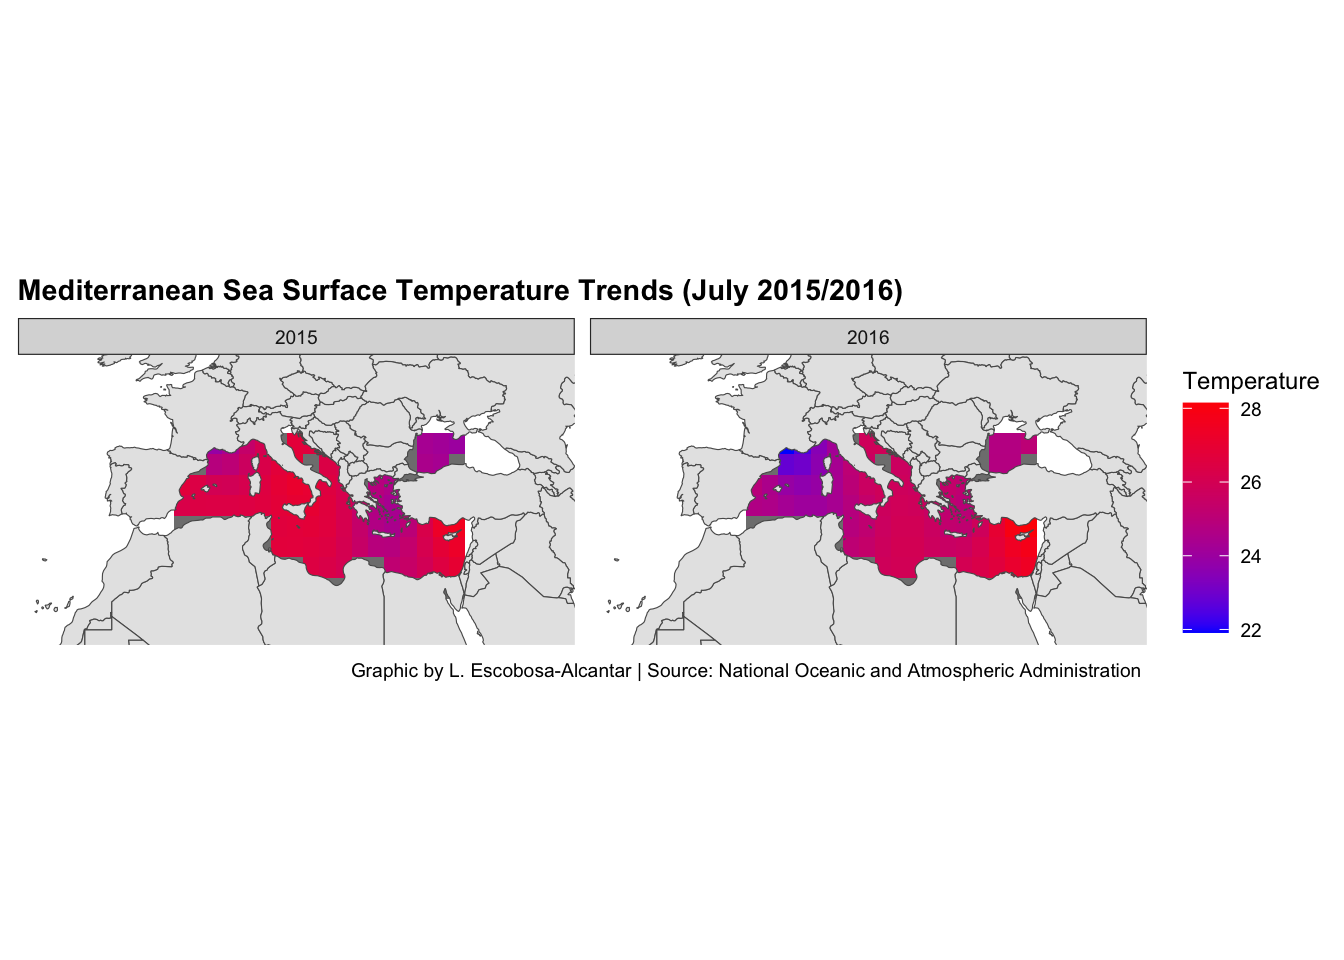
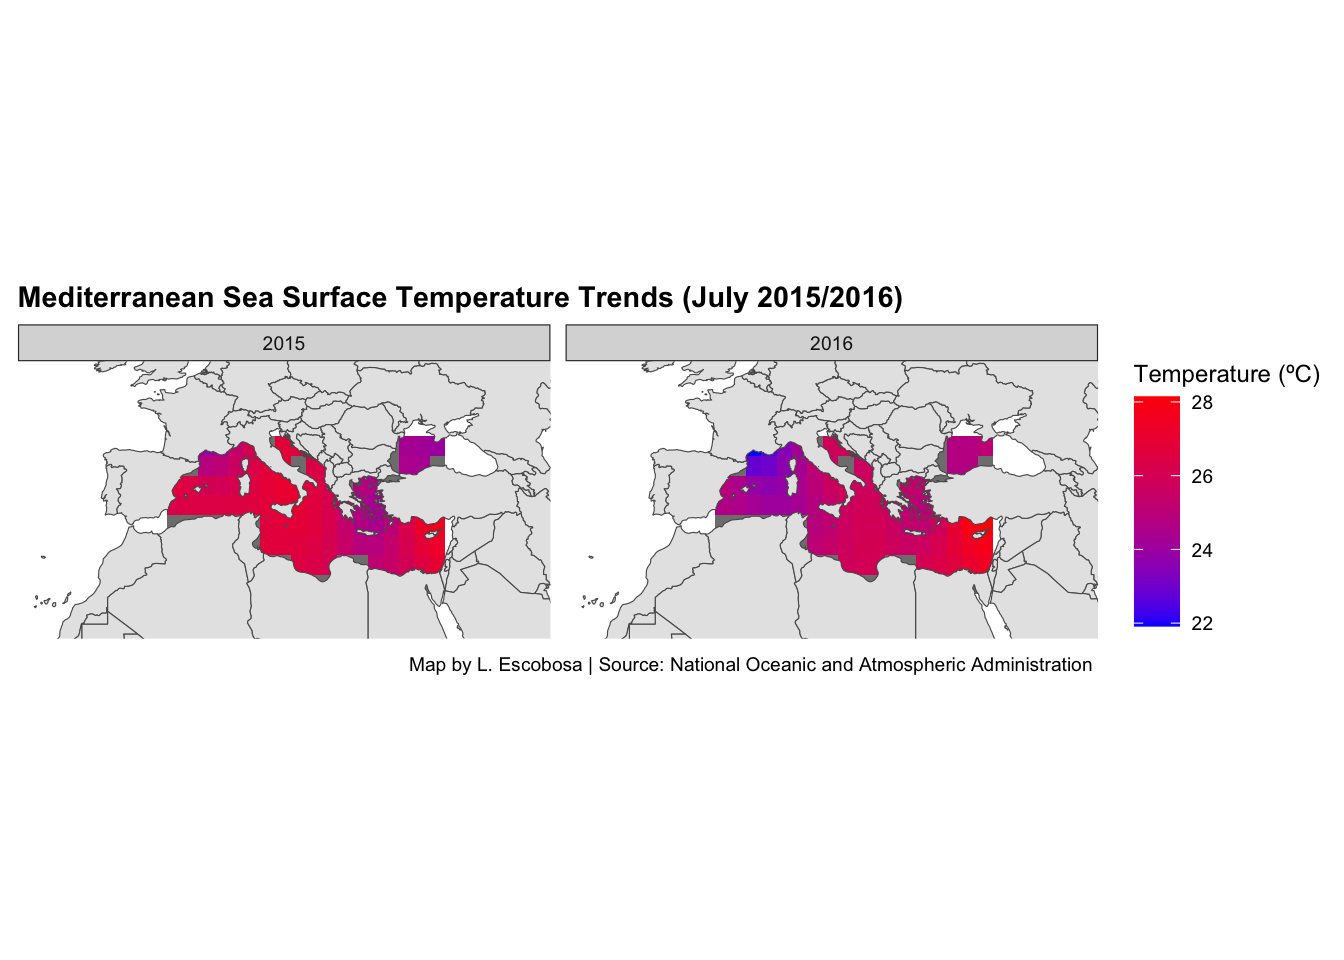
updated fish pop formatting

Changed region(s): [[0.0, 0.2812, 1.0, 0.7188]]

diff --git a/docs/fishpop.html b/docs/fishpop.html
@@ -240,16 +240,18 @@ code span.wa { color: #60a0b0; font-weight: bold; font-style: italic; } /* Warni
 <details>
 <summary>Code</summary>
 <div class="sourceCode cell-code" id="cb1"><pre class="sourceCode r code-with-copy"><code class="sourceCode r"><span id="cb1-1"><a href="#cb1-1" aria-hidden="true" tabindex="-1"></a>NewDat <span class="sc">%&gt;%</span> </span>
-<span id="cb1-2"><a href="#cb1-2" aria-hidden="true" tabindex="-1"></a>  <span class="fu">ggplot</span>(<span class="fu">aes</span>(<span class="at">x =</span> sst, <span class="at">y =</span> Pred, <span class="at">color =</span> FishType)) <span class="sc">+</span> </span>
-<span id="cb1-3"><a href="#cb1-3" aria-hidden="true" tabindex="-1"></a>  <span class="fu">geom_point</span>() <span class="sc">+</span> </span>
-<span id="cb1-4"><a href="#cb1-4" aria-hidden="true" tabindex="-1"></a>  <span class="fu">facet_grid</span>(TimePeriod<span class="sc">~</span>Month) <span class="sc">+</span></span>
-<span id="cb1-5"><a href="#cb1-5" aria-hidden="true" tabindex="-1"></a>  <span class="fu">labs</span>(<span class="at">title =</span> <span class="st">"Predictions for average count of C. julis and T. pavo before and after 2015"</span>,</span>
-<span id="cb1-6"><a href="#cb1-6" aria-hidden="true" tabindex="-1"></a>       <span class="at">subtitle =</span> <span class="st">"(in relation to sea surface temperature)"</span>,</span>
-<span id="cb1-7"><a href="#cb1-7" aria-hidden="true" tabindex="-1"></a>       <span class="at">caption =</span> <span class="st">"Graphic by L. Escobosa-Alcantar | Source: National Oceanic and Atmospheric Administration"</span>,</span>
-<span id="cb1-8"><a href="#cb1-8" aria-hidden="true" tabindex="-1"></a>       <span class="at">x =</span> <span class="st">"Sea Surface Temperature"</span>,</span>
-<span id="cb1-9"><a href="#cb1-9" aria-hidden="true" tabindex="-1"></a>       <span class="at">y =</span> <span class="st">"Prediction of Count"</span>) <span class="sc">+</span></span>
-<span id="cb1-10"><a href="#cb1-10" aria-hidden="true" tabindex="-1"></a>  <span class="fu">theme_classic</span>() <span class="sc">+</span></span>
-<span id="cb1-11"><a href="#cb1-11" aria-hidden="true" tabindex="-1"></a>  <span class="fu">theme</span>(<span class="at">plot.title =</span> <span class="fu">element_text</span>(<span class="at">face =</span> <span class="st">"bold"</span>))</span></code><button title="Copy to Clipboard" class="code-copy-button"><i class="bi"></i></button></pre></div>
+<span id="cb1-2"><a href="#cb1-2" aria-hidden="true" tabindex="-1"></a>  <span class="fu">mutate</span>(<span class="at">FishType =</span> <span class="fu">ifelse</span>(FishType <span class="sc">==</span> <span class="st">"Coris_julis"</span>, <span class="st">"C. julis"</span>, <span class="st">"T. pavo"</span>)) <span class="sc">%&gt;%</span> </span>
+<span id="cb1-3"><a href="#cb1-3" aria-hidden="true" tabindex="-1"></a>  <span class="fu">ggplot</span>(<span class="fu">aes</span>(<span class="at">x =</span> sst, <span class="at">y =</span> Pred, <span class="at">color =</span> FishType)) <span class="sc">+</span> </span>
+<span id="cb1-4"><a href="#cb1-4" aria-hidden="true" tabindex="-1"></a>  <span class="fu">geom_point</span>() <span class="sc">+</span> </span>
+<span id="cb1-5"><a href="#cb1-5" aria-hidden="true" tabindex="-1"></a>  <span class="fu">facet_grid</span>(TimePeriod<span class="sc">~</span>Month) <span class="sc">+</span></span>
+<span id="cb1-6"><a href="#cb1-6" aria-hidden="true" tabindex="-1"></a>  <span class="fu">labs</span>(<span class="at">title =</span> <span class="st">"Predictions for average count of C. julis and T. pavo before and after 2015"</span>,</span>
+<span id="cb1-7"><a href="#cb1-7" aria-hidden="true" tabindex="-1"></a>       <span class="at">subtitle =</span> <span class="st">"(in relation to sea surface temperature)"</span>,</span>
+<span id="cb1-8"><a href="#cb1-8" aria-hidden="true" tabindex="-1"></a>       <span class="at">caption =</span> <span class="st">"Graphic by L. Escobosa | Source: National Oceanic and Atmospheric Administration"</span>,</span>
+<span id="cb1-9"><a href="#cb1-9" aria-hidden="true" tabindex="-1"></a>       <span class="at">x =</span> <span class="st">"Sea Surface Temperature (ºC)"</span>,</span>
+<span id="cb1-10"><a href="#cb1-10" aria-hidden="true" tabindex="-1"></a>       <span class="at">y =</span> <span class="st">"Prediction of Count"</span>,</span>
+<span id="cb1-11"><a href="#cb1-11" aria-hidden="true" tabindex="-1"></a>       <span class="at">color =</span> <span class="st">"Fish Type"</span>) <span class="sc">+</span></span>
+<span id="cb1-12"><a href="#cb1-12" aria-hidden="true" tabindex="-1"></a>  <span class="fu">theme_classic</span>() <span class="sc">+</span></span>
+<span id="cb1-13"><a href="#cb1-13" aria-hidden="true" tabindex="-1"></a>  <span class="fu">theme</span>(<span class="at">plot.title =</span> <span class="fu">element_text</span>(<span class="at">face =</span> <span class="st">"bold"</span>))</span></code><button title="Copy to Clipboard" class="code-copy-button"><i class="bi"></i></button></pre></div>
 </details>
 <div class="cell-output-display">
 <p><img src="fishpop_files/figure-html/unnamed-chunk-3-1.png" class="img-fluid" width="672"></p>
@@ -270,9 +272,9 @@ code span.wa { color: #60a0b0; font-weight: bold; font-style: italic; } /* Warni
 <span id="cb2-6"><a href="#cb2-6" aria-hidden="true" tabindex="-1"></a>  <span class="fu">coord_sf</span>(<span class="at">xlim =</span>  <span class="fu">c</span>(<span class="sc">-</span><span class="fl">17.14</span>,<span class="fl">45.44</span>), <span class="at">ylim =</span> <span class="fu">c</span>(<span class="fl">25.80</span>, <span class="fl">51.29</span>)) <span class="sc">+</span> </span>
 <span id="cb2-7"><a href="#cb2-7" aria-hidden="true" tabindex="-1"></a>  <span class="fu">scale_fill_gradient</span>(<span class="at">low=</span><span class="st">'blue'</span>,<span class="at">high=</span><span class="st">'red'</span>) <span class="sc">+</span> </span>
 <span id="cb2-8"><a href="#cb2-8" aria-hidden="true" tabindex="-1"></a>  <span class="fu">facet_grid</span>(.<span class="sc">~</span>year) <span class="sc">+</span></span>
-<span id="cb2-9"><a href="#cb2-9" aria-hidden="true" tabindex="-1"></a>  <span class="fu">labs</span>(<span class="at">fill =</span> <span class="st">'Temperature'</span>, </span>
+<span id="cb2-9"><a href="#cb2-9" aria-hidden="true" tabindex="-1"></a>  <span class="fu">labs</span>(<span class="at">fill =</span> <span class="st">'Temperature (ºC)'</span>, </span>
 <span id="cb2-10"><a href="#cb2-10" aria-hidden="true" tabindex="-1"></a>       <span class="at">title =</span> <span class="st">'Mediterranean Sea Surface Temperature Trends (July 2015/2016)'</span>, </span>
-<span id="cb2-11"><a href="#cb2-11" aria-hidden="true" tabindex="-1"></a>       <span class="at">caption =</span> <span class="st">"Graphic by L. Escobosa-Alcantar | Source: National Oceanic and Atmospheric Administration "</span>) <span class="sc">+</span> ggthemes<span class="sc">::</span><span class="fu">theme_map</span>() <span class="sc">+</span>  </span>
+<span id="cb2-11"><a href="#cb2-11" aria-hidden="true" tabindex="-1"></a>       <span class="at">caption =</span> <span class="st">"Map by L. Escobosa | Source: National Oceanic and Atmospheric Administration "</span>) <span class="sc">+</span> ggthemes<span class="sc">::</span><span class="fu">theme_map</span>() <span class="sc">+</span>  </span>
 <span id="cb2-12"><a href="#cb2-12" aria-hidden="true" tabindex="-1"></a>  <span class="fu">theme</span>(<span class="at">panel.spacing =</span> <span class="fu">unit</span>(<span class="fl">0.2</span>, <span class="st">"cm"</span>), </span>
 <span id="cb2-13"><a href="#cb2-13" aria-hidden="true" tabindex="-1"></a>        <span class="at">legend.position =</span> <span class="st">'right'</span>,</span>
 <span id="cb2-14"><a href="#cb2-14" aria-hidden="true" tabindex="-1"></a>        <span class="at">plot.title =</span> <span class="fu">element_text</span>(<span class="at">face =</span> <span class="st">"bold"</span>))</span></code><button title="Copy to Clipboard" class="code-copy-button"><i class="bi"></i></button></pre></div>
@@ -308,8 +310,8 @@ code span.wa { color: #60a0b0; font-weight: bold; font-style: italic; } /* Warni
 <span id="cb3-21"><a href="#cb3-21" aria-hidden="true" tabindex="-1"></a>  <span class="fu">scale_fill_gradient</span>(<span class="at">low=</span><span class="st">'white'</span>,<span class="at">high=</span><span class="st">'green'</span>) <span class="sc">+</span> </span>
 <span id="cb3-22"><a href="#cb3-22" aria-hidden="true" tabindex="-1"></a>  <span class="fu">facet_grid</span>(FishType<span class="sc">~</span>Year) <span class="sc">+</span> </span>
 <span id="cb3-23"><a href="#cb3-23" aria-hidden="true" tabindex="-1"></a>  <span class="fu">labs</span>(<span class="at">fill =</span> <span class="st">'Predict Fish Count'</span>, </span>
-<span id="cb3-24"><a href="#cb3-24" aria-hidden="true" tabindex="-1"></a>       <span class="at">title =</span> <span class="st">'Predicted count and distribution of C. julis and T. pavo in the Mediterranean Sea (July 2015/2016) '</span>,</span>
-<span id="cb3-25"><a href="#cb3-25" aria-hidden="true" tabindex="-1"></a>       <span class="at">caption =</span> <span class="st">"Graphic by L. Escobosa-Alcantar | Source: National Oceanic and Atmospheric Administration "</span>) <span class="sc">+</span> </span>
+<span id="cb3-24"><a href="#cb3-24" aria-hidden="true" tabindex="-1"></a>       <span class="at">title =</span> <span class="st">'Predicted count and distribution of C. julis and T. pavo in the Mediterranean Sea </span><span class="sc">\n</span><span class="st"> (July 2015/2016) '</span>,</span>
+<span id="cb3-25"><a href="#cb3-25" aria-hidden="true" tabindex="-1"></a>       <span class="at">caption =</span> <span class="st">"Graphic by L. Escobosa | Source: National Oceanic and Atmospheric Administration "</span>) <span class="sc">+</span> </span>
 <span id="cb3-26"><a href="#cb3-26" aria-hidden="true" tabindex="-1"></a>  ggthemes<span class="sc">::</span><span class="fu">theme_map</span>()  <span class="sc">+</span> </span>
 <span id="cb3-27"><a href="#cb3-27" aria-hidden="true" tabindex="-1"></a>  <span class="fu">theme</span>(<span class="at">panel.spacing =</span> <span class="fu">unit</span>(<span class="fl">0.3</span>, <span class="st">"cm"</span>), </span>
 <span id="cb3-28"><a href="#cb3-28" aria-hidden="true" tabindex="-1"></a>        <span class="at">legend.position=</span><span class="st">'right'</span>,</span>
